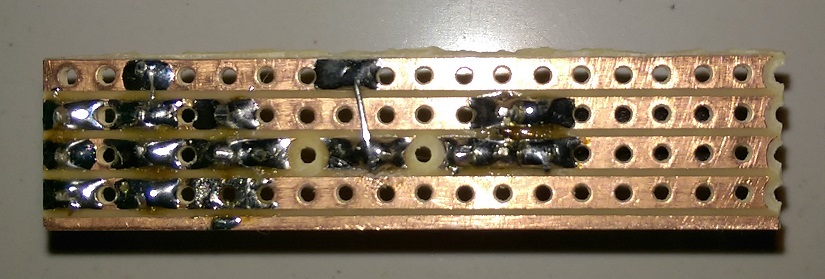
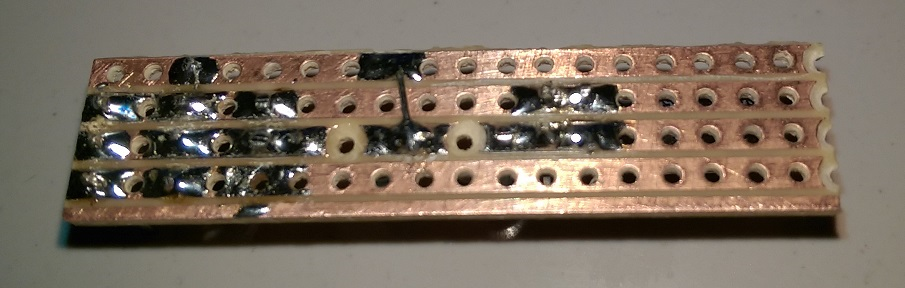
Better image & notes

diff --git a/README.md b/README.md
@@ -42,11 +42,15 @@ battery holders are common and cheap to obtain from eBay, thus solving the prote
 The battery holder is then affixed onto the base of the solar cell using a silicone sealant.  
 Make sure to use a 'non-corrosive' type as some will attack various materials including copper.
 
-### Built Up Circuit
+### Built Up Circuit - Front
 
 <img src="images/device.png"/>
 
+### Built Up Circuit - Back
+
 <img src="images/back.png"/>
+
+Not the best image - the camera seemed to have problems with the shiny copper surface.
 
 Note: For testing, the solar cell, battery and LED are broken out on 2.54mm Dupont connector pins.  For long environmental life you may
 want to solder the connecting wires before coating the whole unit with a conformal coating / liquid tape etc
